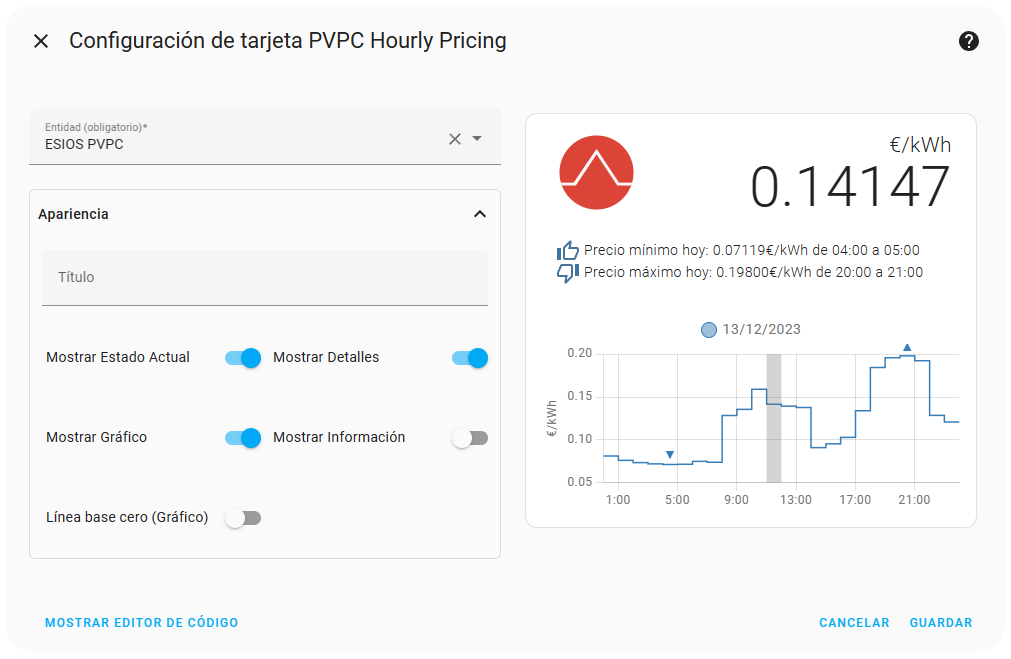
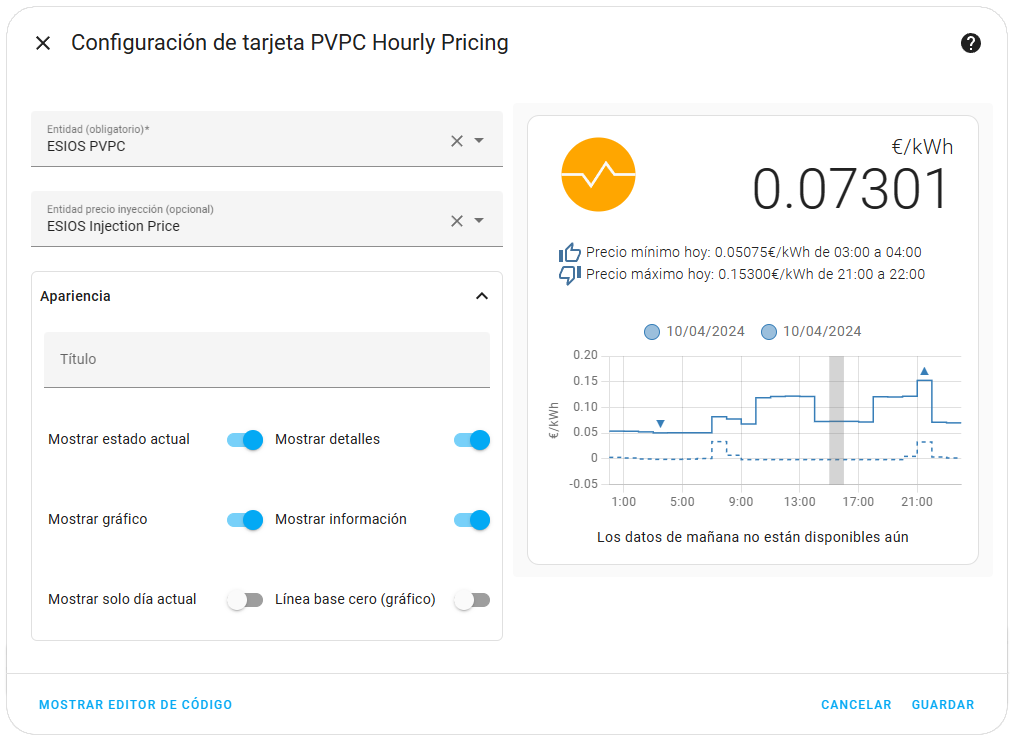
Docs: Update README.md

diff --git a/dist/pvpc-hourly-pricing-card.js b/dist/pvpc-hourly-pricing-card.js
@@ -959,6 +959,7 @@ export class PVPCHourlyPricingCardEditor extends LitElement {
       show_details: true,
       show_graph: true,
       show_info: true,
+      show_only_today: false,
       graph_baseline_zero: false,
       ...this._config,
     };

diff --git a/README.md b/README.md
@@ -22,6 +22,7 @@ Based on [Lovelace Weather Card with Chart](https://github.com/sgttrs/lovelace-w
 - Actual price close-up.
 - Graph with the prices of the current day.
 - Graph with the prices of the next day when you are available.
+- Graph with the injection prices.
 - Lowest and Highest of the current and next day.
 - Icon indicating the current pricing period.
 
@@ -31,13 +32,11 @@ You could use [HACS](https://hacs.xyz/) or follow this [guide](https://www.danie
 
 ```yaml
 resources:
-  url: /local/pvpc-hourly-pricing-card.js?v=1.14.1
+  url: /local/pvpc-hourly-pricing-card.js?v=1.15.0
   type: module
 ```
 
 ## Options
-
-![Card Options](https://raw.githubusercontent.com/danimart1991/pvpc-hourly-pricing-card/master/docs/images/card-options.png)
 
 | Name                | Type    | Default | Requirement  | Description                                                               |
 | ------------------- | ------- | ------- | ------------ | ------------------------------------------------------------------------- |
@@ -49,6 +48,7 @@ resources:
 | show_details        | boolean | `true`  | Optional     | Show the lowest and highest prices and hours for the current and next day |
 | show_graph          | boolean | `true`  | Optional     | Show the graph with the prices for the current and next day               |
 | show_info           | boolean | `true`  | Optional     | Show info like '_Tomorrow's data is no yet available_'                    |
+| show_only_today     | boolean | `false` | Optional     | Show only today's data                                                    |
 | graph_baseline_zero | boolean | `false` | Optional     | Show graph with desired minimum line base zero.                           |
 
 ## Example
